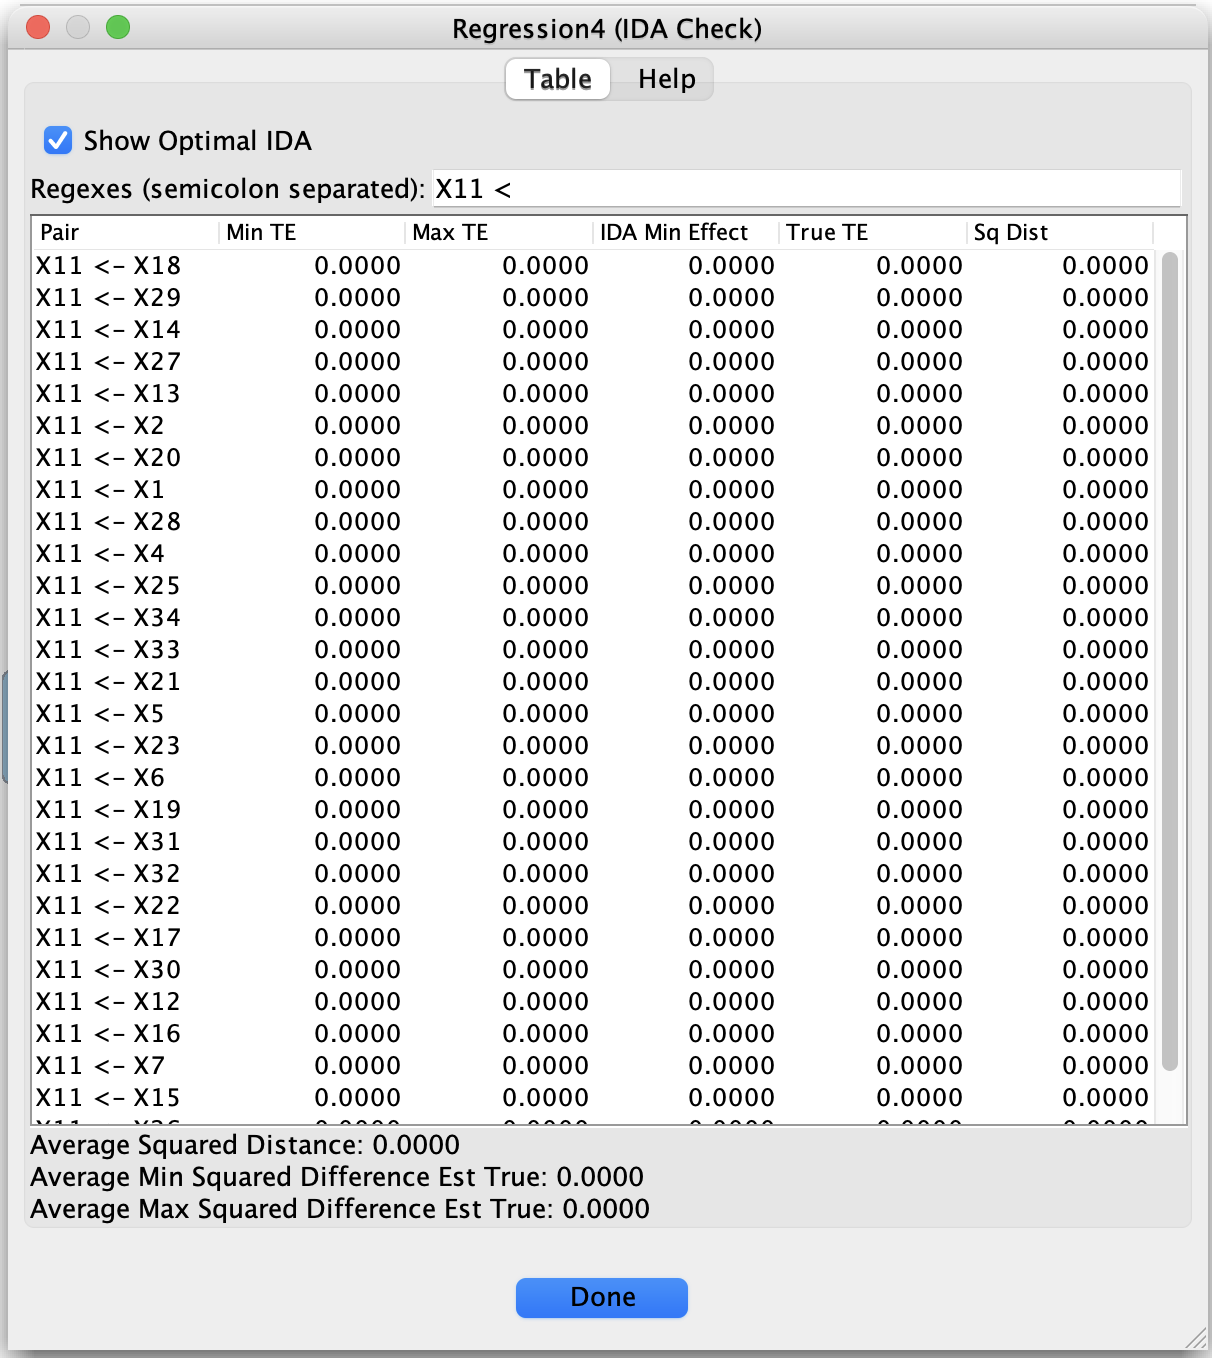
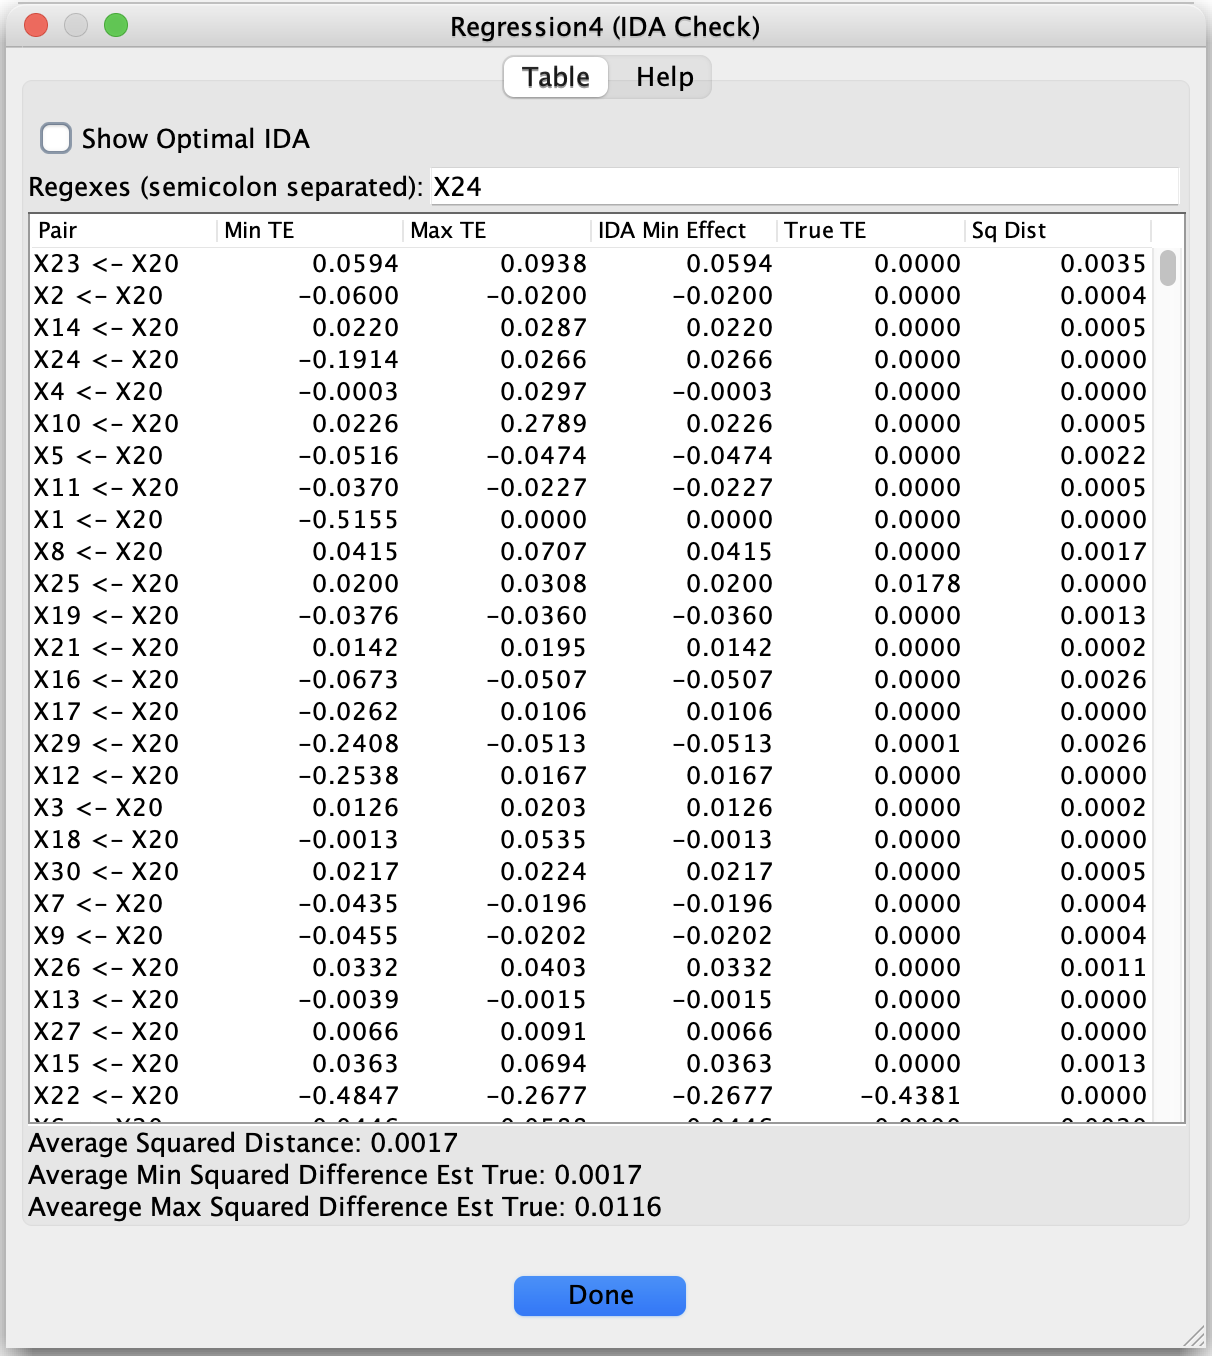
Update Regression box documentation to include "IDA Check" details:
- Expanded "IDA Check" section with detailed explanations of features, table columns, and real vs. simulation data usage.
- Clarified documentation on empirical IDA intervals and removed references to LaTeX formatting.
- Updated screenshot to reflect default **standard IDA** settings, ensuring compatibility with prior versions.

diff --git a/docs/tetrad-interface/detail-callouts/detail-ida-check.md b/docs/tetrad-interface/detail-callouts/detail-ida-check.md
@@ -52,7 +52,7 @@ The IDA Check window contains:
 
 ## Table columns
 
-Each row in the table corresponds to one ordered pair \(Y \leftarrow X\).
+Each row in the table corresponds to one ordered pair (X, Y).
 
 - **Pair**  
   Displayed as `Y <- X`, meaning:
@@ -60,13 +60,13 @@ Each row in the table corresponds to one ordered pair \(Y \leftarrow X\).
   - **Outcome**  = `Y`  
 
 - **Min TE**  
-  The **minimum total effect** of \(X\) on \(Y\) over all DAGs and parent
+  The **minimum total effect** of X on Y over all DAGs and parent
   sets consistent with the current graph (standard or Optimal IDA,
   depending on the checkbox). This is the left endpoint of the IDA
   interval.
 
 - **Max TE**  
-  The **maximum total effect** of \(X\) on \(Y\) over all compatible DAGs /
+  The **maximum total effect** of X on Y over all compatible DAGs /
   parent sets, i.e., the right endpoint of the IDA interval.
 
 - **IDA Min Effect**  
@@ -76,14 +76,13 @@ Each row in the table corresponds to one ordered pair \(Y \leftarrow X\).
   Tetrad’s IDA code.
 
 - **True TE**  
-  The **true total effect** of \(X\) on \(Y\), computed from the generating
+  The **true total effect** of X on Y, computed from the generating
   DAG (available only in simulation).
 
 - **Sq Dist**  
   The **squared distance** between the true total effect and the IDA
   interval, defined as:
-  - \(0\) if `True TE` lies **inside** the interval
-    \([ \text{Min TE}, \text{Max TE}]\);
+  - 0 if `True TE` TE lies inside the interval between Min TE and Max TE (including endpoints)
   - otherwise, the square of the distance from `True TE` to the **nearest
     endpoint** of that interval.
 
@@ -142,9 +141,10 @@ known truth.
 
 ## Notes
 
-- This panel is primarily intended for **simulation studies and algorithm
-  comparison**. In real applied data, the “True TE” column is not
-  available.
-- The quality of IDA intervals depends entirely on the estimated graph.
+- For real data, where the True TE column is not available, all columns 
+  and summary statistics that require knowledge of the true total effect are 
+  omitted. In this mode, the panel simply reports the IDA (or Optimal IDA) intervals 
+  themselves, which can be interpreted as empirical bounds on the unknown total effects.
+- The quality of IDA intervals depends on the estimated graph.
   A poor graph may yield intervals that systematically miss the true
   effects, even if the IDA machinery itself is correct.

diff --git a/docs/changelog.md b/docs/changelog.md
@@ -105,6 +105,31 @@ of the software.
   and that the resulting node can be used anywhere a normal `Data` node
   can be used.
 
+### 7. Regression box: adjustment and IDA tools
+
+- Updated the **Regression** box documentation to reflect that both:
+    - the **Adjustments and total effects** component (based on Recursive
+      Adjustment / GAC sets), and
+    - the **IDA Check** component  
+      now live in the Regression box, rather than being scattered across other
+      parts of the interface.
+- Added a new **IDA Check** detail page, including:
+    - An explanation of standard IDA (Maathuis et al. 2009) and optional
+      **Optimal IDA** (Witte et al. 2020).
+    - A description of the **Show Optimal IDA** checkbox and the regex-based
+      row filter for the *Pair* column.
+    - Column-by-column documentation of:
+        - `Pair`, `Min TE`, `Max TE`, `IDA Min Effect`, `True TE`,
+          and `Sq Dist`,
+          and how these are interpreted in simulation versus real-data settings.
+    - Clarification that for real data, where the true total effects are
+      unknown, all columns and summary statistics requiring `True TE` are
+      omitted, so the panel reports only the empirical IDA / Optimal IDA
+      intervals.
+- Updated the IDA Check screenshot to show **standard IDA as the default**
+  (the *Show Optimal IDA* checkbox unchecked), preserving backward
+  compatibility with earlier versions of the tool and documentation.
+
 ---
 
 Further tweaks and small additions (for example, new detail callouts or
